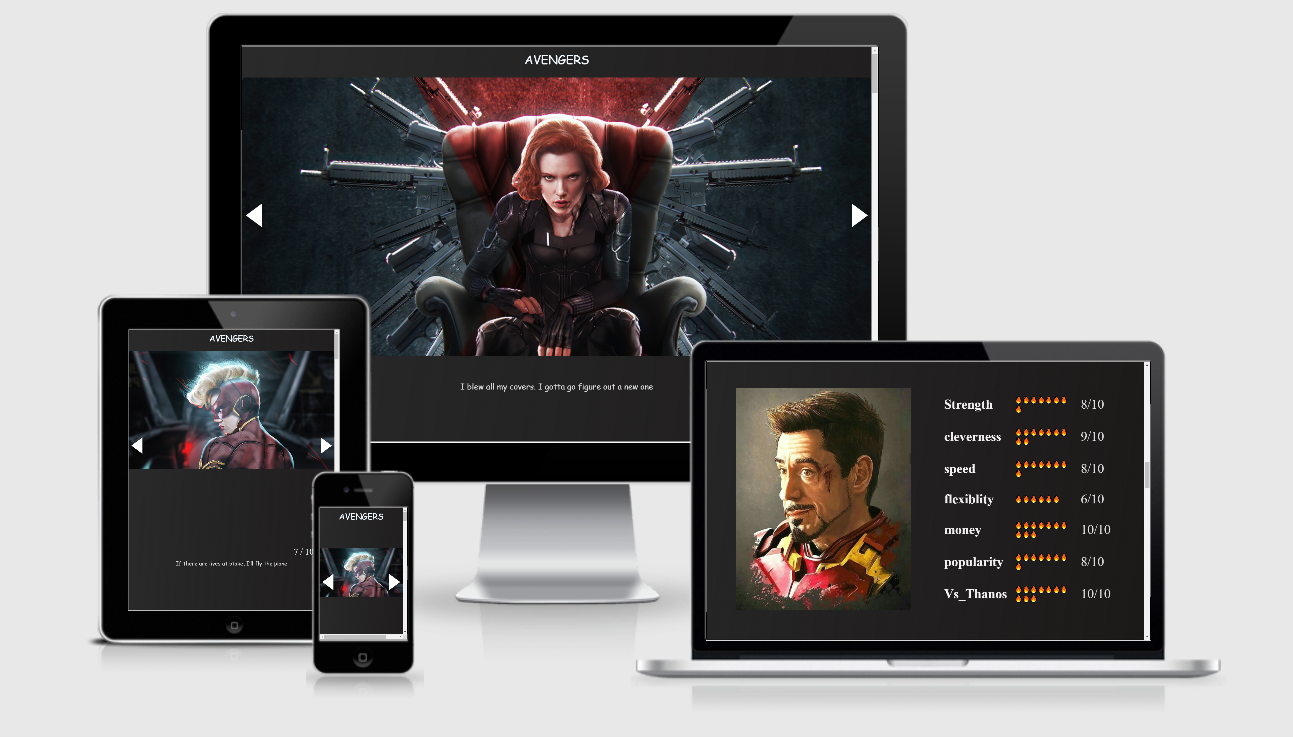
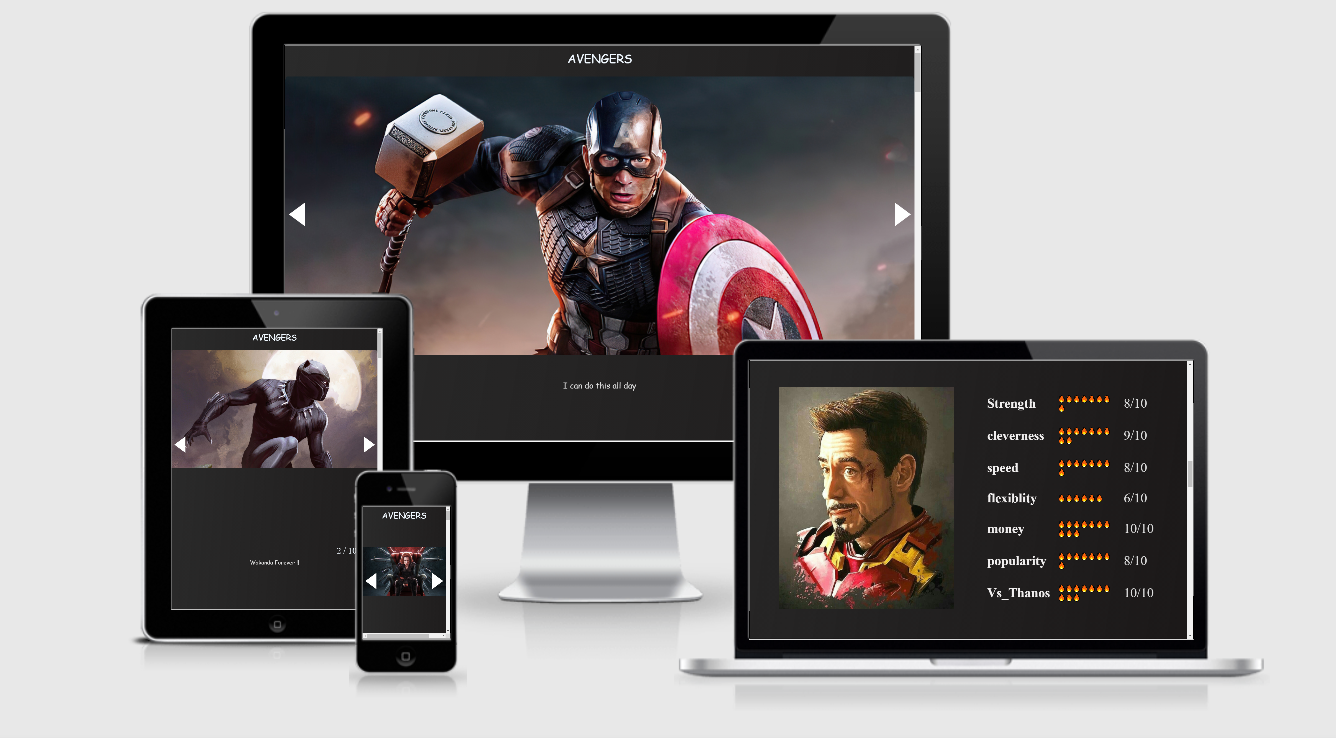
projects section completed

diff --git a/src/data/config.js b/src/data/config.js
@@ -1,5 +1,6 @@
 //import images here
 import profile_picture from "../assets/images/profile_picture.JPG";
+import avengers from "../assets/images/projects_image/avengers.PNG";
 
 const data = {
   intro: {
@@ -12,6 +13,78 @@ const data = {
       "a proud Indian...",1000,
     ],
   },
+  projects: {
+    dataArray:[
+      {
+        id : 1,
+        project_name : "The Avengers",
+        project_url : "https://rohitanand11.github.io/avengers/",
+        image_path : avengers,
+        project_description :"A webpage which consists of image carousel, Records of the all the movies of the Avengers and their individual statistics. UI is the main focus of this project.",
+      },
+      {
+        id : 2,
+        project_name : "SpaceX",
+        project_url : "https://rohitanand11.github.io/avengers/",
+        image_path : avengers,
+        project_description : "This project makes use of SpaceX api and renders all the space missions that they had and have. There are also options to filter according to launch year, successful launch and landing",
+      },
+      {
+        id : 3,
+        project_name : "Covid-pidea",
+        project_url : "https://rohitanand11.github.io/avengers/",
+        image_path : avengers,
+        project_description : "Covid-pidea is a live COVID tracker and shows statistics of COVID cases in India and other 186 countries. The data is updated daily and is fetched from the official covid19 API.", 
+
+      },
+      {
+        id : 4,
+        project_name : "The Avengers",
+        project_url : "https://rohitanand11.github.io/avengers/",
+        image_path : avengers,
+        project_description : "Lorem Ipsum is simply dummy text of the printing and typesetting industry. Lorem Ipsum has been the industry's standard dummy text ever since the 1500s, when an unknown printer took a galley of type and scrambled it to make a type specimen book. It has survived not only five centuries, ",
+      },
+      {
+        id : 5,
+        project_name : "Food-builder",
+        project_url : "https://rohitanand11.github.io/avengers/",
+        image_path : avengers,
+        project_description : "Food Ingredient Builder is a large scale responsive web-app developed by using React JS framework. It help the user to add and remove ingredients which will in-turn effectively change the graphical view of the food. For building this , I have used states, props, CSS ,components, google fonts, backdrops, Modals ,dynamic rendering of the styles based on the logic.",
+      },
+      {
+        id : 6,
+        project_name : "Cricket-card Game",
+        project_url : "https://rohitanand11.github.io/avengers/",
+        image_path : avengers,
+        project_description : "React Js project built mainly focusing on styling the web app.Used google fonts and CSS (also flex) for styling the cards.Wrote logic for randomly aligning the card and assigning a player as winner or looser according to total experience he got.",
+      },
+      {
+        id : 7,
+        project_name : "Petrichor",
+        project_url : "https://rohitanand11.github.io/avengers/",
+        image_path : avengers,
+        project_description : "Petrichor is a weather app website which has a search bar which takes in input from the user and dynamically renders the weather data of that area after making an api call.",
+      },
+      {
+        id : 8,
+        project_name : "Food App",
+        project_url : "https://rohitanand11.github.io/avengers/",
+        image_path : avengers,
+        project_description : "This is a react-native app built to run both on android and ios and it makes use of 3rd party API (zomato API). I made use of react- navigations ,states,props,components,hooks,react native styling,2 way-binding and axios for this project. Data is fetched making a query with the help of axios.The fetched data is rendered on the app screen with a filtering logic of price category using JS logic. ",
+      },
+      {
+        id : 9,
+        project_name : "Guess my number",
+        project_url : "https://rohitanand11.github.io/avengers/",
+        image_path : avengers,
+        project_description : "It is a mobile app built in react-native. It is a number game and uses of functional components and hooks along with navigation with the help of states. Build a game logic along with touchable inputs ,styling. Made the navigation only with the help of managing states.",
+      },
+
+
+    ]
+    
+
+  }
 };
 
 export default data;

diff --git a/src/components/card/Card.js b/src/components/card/Card.js
@@ -1,35 +1,39 @@
 import React from "react";
 import Classes from "./Card.module.scss";
-import laptop from "../../assets/images/projects_image/laptop.png";
 
-const Card = (props) => {
-  const link = "www.google.com";
-  const header = "heading";
-  const description =
-    "Lorem Ipsum is simply dummy text of the printing and typesetting industry. Lorem Ipsum has been the industry's standard dummy text ever since the 1500s, when an unknown printer took a galley of type and scrambled it to make a type specimen book. It has survived not only five centuries, but also the leap into electronic typesetting, remaining essentially unchanged. It was popularised in the 1960s with the release of Letraset sheets containing Lorem";
-  const tech = "😃😃😃😃😃";
+const Card = ({ project }) => {
+  const renderProjectDeatils = () => {
+    if (project) {
+      return (
+        <React.Fragment>
+          <div className={Classes.Card}>
+            <a href={project.project_url}>
+              <div className={Classes.imageContainer}>
+                <img src={project.image_path} alt="current project" />
+              </div>
+            </a>
 
-  return (
-    <div className={Classes.Card}>
-      <a href={link}>
-        <div className={Classes.imageContainer}>
-          <img src={laptop} alt="current project" />
-        </div>
-      </a>
+            <div className={Classes.Content}>
+              <div className={Classes.ContentHeader}>
+                {project.project_name}
+              </div>
+              <div className={Classes.Description}>{project.project_description}</div>
+              <div className={Classes.ContentFooter}>
+                <a href="www.google.com"><div>visit code</div></a>
+                <a href="www.google.com"><div>visit webpage</div></a>
+              </div>
+            </div>
 
-      <div className={Classes.Content}>
-        <div className={Classes.ContentHeader}>
-          <strong>{header}</strong>
-        </div>
-        <div className={Classes.Description}>{description}</div>
-        <div className={Classes.ContentFooter}>
-          <strong>{header}</strong>
-        </div>
-      </div>
+            <div className={Classes.Footer}></div>
+          </div>
+        </React.Fragment>
+      );
+    } else {
+      return null;
+    }
+  };
 
-      <div className={Classes.Footer}>{tech}</div>
-    </div>
-  );
+  return renderProjectDeatils();
 };
 
 export default Card;

diff --git a/src/components/card/Card.module.scss b/src/components/card/Card.module.scss
@@ -4,45 +4,53 @@
     flex-direction: column;
     background-color : rgb(245, 241, 241);
     border-radius : 12px;
-    margin-bottom : 23px;
+    margin-bottom : 10vh;
     overflow: hidden;
+    font-family: sans-serif;
 
     .imageContainer{
         width:100%;
-        height:60vh;
+        height:40vh;
 
-        img{
+        img {
             width:100%;
             height:100%;
         }
     }
 
     .Content{
-        width: 98%;
         margin : 0  auto;
         flex:1;
-        padding:5px;
+        padding:5px 10px;
         display:flex;
         flex-direction: column;
         align-items: center;
 
         .ContentHeader{
-            font-size : 1.8rem;
+            font-size : 1.3rem;
+            padding-top:10px;
+            padding-bottom:10px;
+            font-family: monospace;
         }
         .Description{
-            font-size : 1.4rem;
-            padding:10px;
-            opacity: .8;
+            font-size : 1rem;
+            opacity: .7;
+            
         }
         .ContentFooter{
-            font-size : 1.8rem;
+            font-size : 1.3rem;
+            padding-top:10px;
+            padding-bottom:10px;
+            font-family: monospace;
+            display: flex;
+            flex-direction: row;
+            justify-content: space-evenly;
+            align-items: center;
         }
     }
 
     .Footer{
         width: 100%;
-        flex:1;
-        padding:5px;
     }
 
 

diff --git a/src/pages/projects/Projects.js b/src/pages/projects/Projects.js
@@ -8,14 +8,27 @@ import PageHeader from "../../components/page_header/PageHeader";
 //style components goes here
 import classes from "./Projects.module.scss";
 
-const Projects = () => {
+const Projects = ({projectData}) => {
+
+    const renderProjectCards = () => {
+        if(projectData) {
+            return projectData.map((project,index)=>{
+                return <Card project = {project}/>
+            })
+        } else {
+            return null;
+        }
+    }
+
   return (
     <BackgroundWrapper
       background_style={{ backgroundColor: "rgb(150,150,150)" }}
     >
       <div className={classes.Projects}>
         <PageHeader pageTitle="Projects" />
-        <Card />
+        <div className={classes.ProjectCards}>
+          {renderProjectCards()}
+        </div>
       </div>
     </BackgroundWrapper>
   );

diff --git a/src/pages/projects/Projects.module.scss b/src/pages/projects/Projects.module.scss
@@ -2,6 +2,17 @@
 @import '../../utils/styles/helper_mixins.scss';
 
 .Projects{
+
     @include align-component-to-center($maximum-width-of-pages);
     min-height:100vh;
+
+    .ProjectCards{
+        margin-top: 5px;
+        display: flex;
+        flex-direction: row;
+        justify-content: space-evenly;
+        // align-items: center;
+        min-height: 100vh;
+        flex-wrap: wrap;
+    }
 }

diff --git a/src/App.js b/src/App.js
@@ -7,12 +7,13 @@ import * as utility from './data/config_functions';
 import './App.scss';
 
 const introData = utility.intro_data();
+const projectData = utility.project_data();
 
 function App() {
   return (
     <div className="App">
       <Intro introData={introData}/>
-      <Projects />
+      <Projects projectData={projectData}/>
     </div>
   );
 }

diff --git a/src/data/config_functions.js b/src/data/config_functions.js
@@ -5,3 +5,8 @@ export const intro_data = () => {
     return output_intro;
 };
 
+export const project_data = () => {
+    const output_projectData = [...data.projects.dataArray];
+    return output_projectData;
+}
+

diff --git a/src/pages/intro/Intro.module.scss b/src/pages/intro/Intro.module.scss
@@ -45,6 +45,7 @@
                 font-size : 1.2rem;
                 font-weight: 100;
                 padding-bottom: 20px;
+                opacity: 0.6;
             }
 
             .textCorousal{
